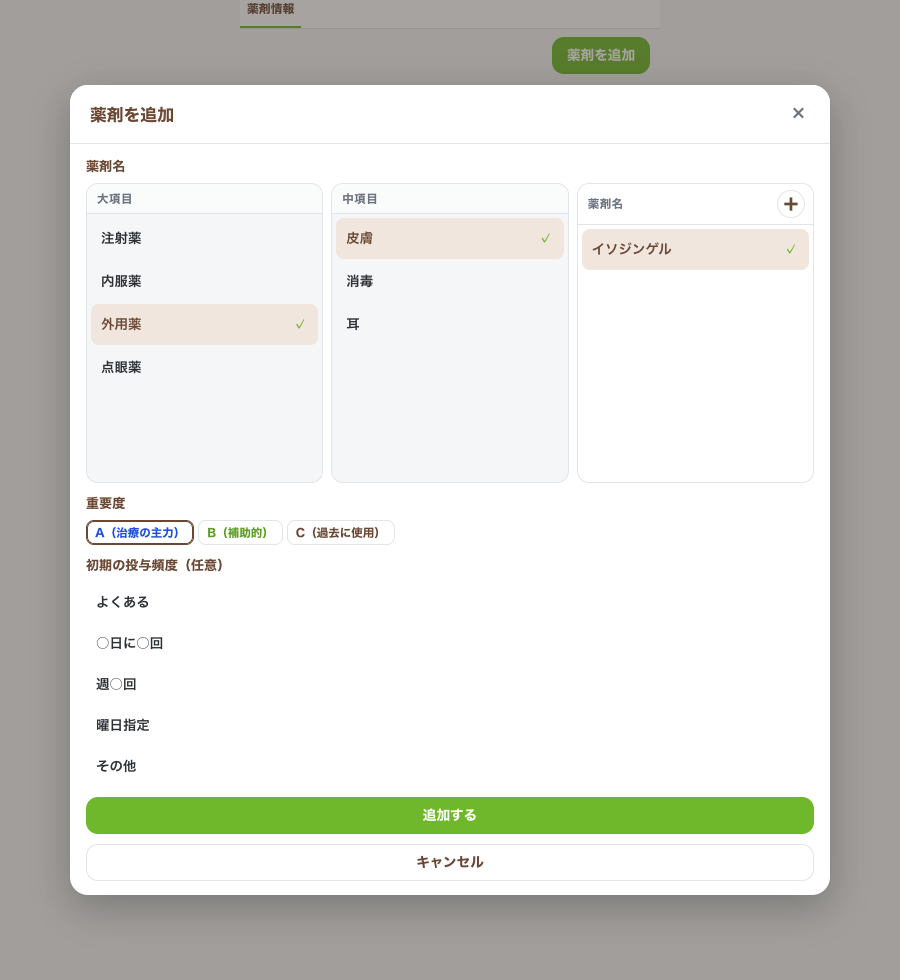
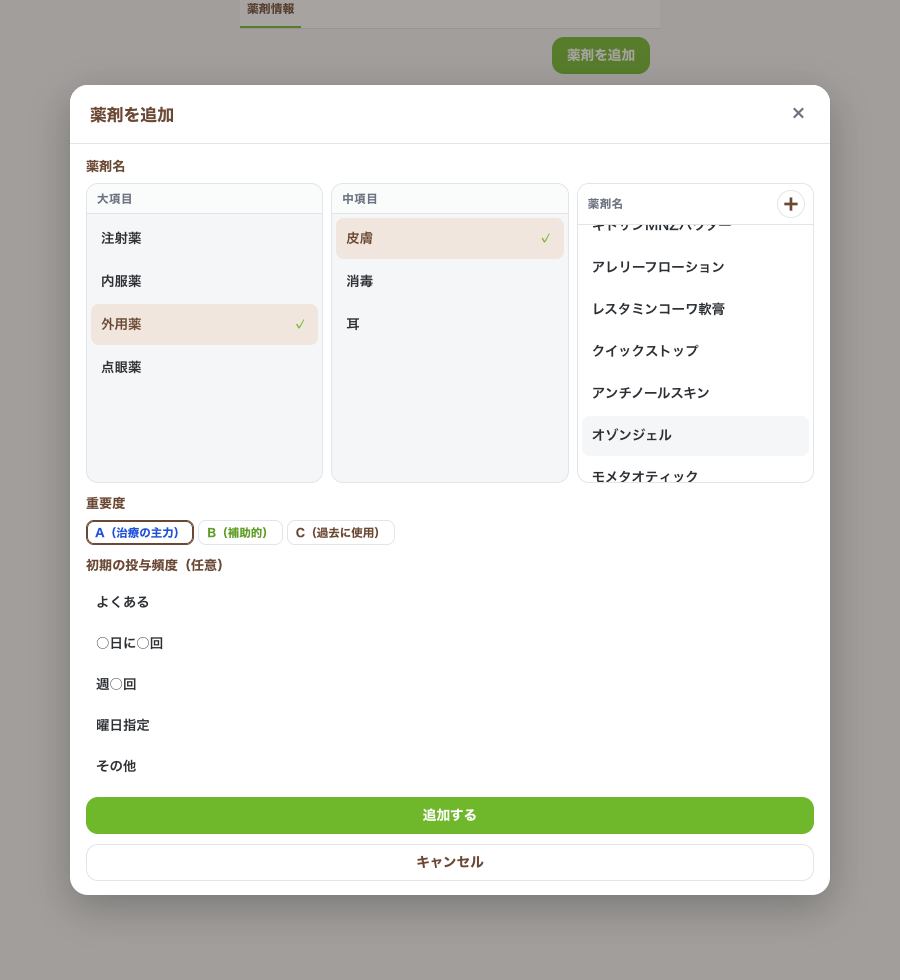
外用薬マスタに消毒・皮膚の薬剤名を指定順でシードする。

Changed region(s): [[0.6222, 0.2143, 0.9022, 0.2755], [0.6533, 0.3061, 0.8089, 0.3673], [0.6533, 0.398, 0.7778, 0.4898]]

diff --git a/js/db.js b/js/db.js
@@ -1479,6 +1479,9 @@ export const MED_ORAL_VITAMIN_GROUP_ID = "seed-med-oral-vitamin";
 export const MED_ORAL_HORMONE_GROUP_ID = "seed-med-oral-hormone";
 export const MED_ORAL_KAMPO_GROUP_ID = "seed-med-oral-kampo";
 export const MED_ORAL_BLOOD_GROUP_ID = "seed-med-oral-blood";
+export const MED_TOPICAL_SKIN_GROUP_ID = "seed-med-topical-skin";
+export const MED_TOPICAL_DISINFECT_GROUP_ID = "seed-med-topical-disinfect";
+export const MED_TOPICAL_EAR_GROUP_ID = "seed-med-topical-ear";
 
 /** 中項目シード */
 const MEDICATION_ITEM_GROUP_SEED = [
@@ -1503,12 +1506,12 @@ const MEDICATION_ITEM_GROUP_SEED = [
   medGroupSeed("oral", MED_ORAL_OTHER_GROUP_ID, "その他", 180),
   medGroupSeed("oral", "seed-med-oral-inject-suppository", "処方注射薬・座薬", 190),
   // 外用
-  medGroupSeed("topical", "seed-med-topical-skin", "皮膚", 10),
-  medGroupSeed("topical", "seed-med-topical-disinfect", "消毒", 20),
-  medGroupSeed("topical", "seed-med-topical-ear", "耳", 30),
+  medGroupSeed("topical", MED_TOPICAL_SKIN_GROUP_ID, "皮膚", 10),
+  medGroupSeed("topical", MED_TOPICAL_DISINFECT_GROUP_ID, "消毒", 20),
+  medGroupSeed("topical", MED_TOPICAL_EAR_GROUP_ID, "耳", 30),
 ];
 
-/** 内服薬の葉シード（中項目直下のフラット一覧・指定順） */
+/** 内服・外用の葉シード（中項目直下のフラット一覧・指定順） */
 const MEDICATION_ITEM_LEAF_SEED = [
   ...medGroupLeaves("oral", MED_ORAL_ANTIBIOTIC_GROUP_ID, [
     { id: "seed-med-oral-abx-amoxicillin", label: "アモキシシリン" },
@@ -1734,6 +1737,29 @@ const MEDICATION_ITEM_LEAF_SEED = [
     { id: "seed-med-oral-blood-clopidogrel", label: "クロピドグレル" },
     { id: "seed-med-oral-blood-xarelto", label: "イグザレルト" },
     { id: "seed-med-oral-blood-tranexamic", label: "トラネキサム酸" },
+  ]),
+  ...medGroupLeaves("topical", MED_TOPICAL_DISINFECT_GROUP_ID, [
+    { id: "seed-med-topical-disinfect-ch-towel", label: "CHタオル" },
+    { id: "seed-med-topical-disinfect-ap-water", label: "AP水" },
+  ]),
+  ...medGroupLeaves("topical", MED_TOPICAL_SKIN_GROUP_ID, [
+    { id: "seed-med-topical-skin-spirazone", label: "スピラゾン軟膏" },
+    { id: "seed-med-topical-skin-mometasone", label: "モメタゾン軟膏" },
+    { id: "seed-med-topical-skin-gentamicin", label: "ゲンタマイシンクリーム" },
+    { id: "seed-med-topical-skin-heparin-cream", label: "ヘパリンクリーム" },
+    { id: "seed-med-topical-skin-heparin-foam", label: "ヘパリン泡スプレー" },
+    { id: "seed-med-topical-skin-geben", label: "ゲーベンクリーム" },
+    { id: "seed-med-topical-skin-ketoconazole", label: "ケトコナゾールクリーム" },
+    { id: "seed-med-topical-skin-horse-oil", label: "馬油" },
+    { id: "seed-med-topical-skin-tacrolimus", label: "タクロリムス軟膏" },
+    { id: "seed-med-topical-skin-chitosan", label: "キトサンパウダー" },
+    { id: "seed-med-topical-skin-chitosan-mnz", label: "キトサンMNZパウダー" },
+    { id: "seed-med-topical-skin-allerief", label: "アレリーフローション" },
+    { id: "seed-med-topical-skin-restamin-kowa", label: "レスタミンコーワ軟膏" },
+    { id: "seed-med-topical-skin-quick-stop", label: "クイックストップ" },
+    { id: "seed-med-topical-skin-antinoll", label: "アンチノールスキン" },
+    { id: "seed-med-topical-skin-ozone-gel", label: "オゾンジェル" },
+    { id: "seed-med-topical-skin-mometotic", label: "モメタオティック" },
   ]),
 ];
 

diff --git a/scripts/mock-db-med-hierarchy.js b/scripts/mock-db-med-hierarchy.js
@@ -24,6 +24,9 @@ export const MED_ORAL_VITAMIN_GROUP_ID = "seed-med-oral-vitamin";
 export const MED_ORAL_HORMONE_GROUP_ID = "seed-med-oral-hormone";
 export const MED_ORAL_KAMPO_GROUP_ID = "seed-med-oral-kampo";
 export const MED_ORAL_BLOOD_GROUP_ID = "seed-med-oral-blood";
+export const MED_TOPICAL_SKIN_GROUP_ID = "seed-med-topical-skin";
+export const MED_TOPICAL_DISINFECT_GROUP_ID = "seed-med-topical-disinfect";
+export const MED_TOPICAL_EAR_GROUP_ID = "seed-med-topical-ear";
 
 const CATEGORY_IDS = new Set(MEDICATION_ITEM_CATEGORIES.map((c) => c.id));
 
@@ -88,9 +91,9 @@ const MEDICATION_ITEM_GROUP_SEED = [
   medGroupSeed("oral", MED_ORAL_KAMPO_GROUP_ID, "漢方", 170),
   medGroupSeed("oral", MED_ORAL_OTHER_GROUP_ID, "その他", 180),
   medGroupSeed("oral", "seed-med-oral-inject-suppository", "処方注射薬・座薬", 190),
-  medGroupSeed("topical", "seed-med-topical-skin", "皮膚", 10),
-  medGroupSeed("topical", "seed-med-topical-disinfect", "消毒", 20),
-  medGroupSeed("topical", "seed-med-topical-ear", "耳", 30),
+  medGroupSeed("topical", MED_TOPICAL_SKIN_GROUP_ID, "皮膚", 10),
+  medGroupSeed("topical", MED_TOPICAL_DISINFECT_GROUP_ID, "消毒", 20),
+  medGroupSeed("topical", MED_TOPICAL_EAR_GROUP_ID, "耳", 30),
 ];
 
 export const MEDICATION_ITEM_LEAF_SEED = [
@@ -315,6 +318,29 @@ export const MEDICATION_ITEM_LEAF_SEED = [
     { id: "seed-med-oral-blood-clopidogrel", label: "クロピドグレル" },
     { id: "seed-med-oral-blood-xarelto", label: "イグザレルト" },
     { id: "seed-med-oral-blood-tranexamic", label: "トラネキサム酸" },
+  ]),
+  ...medGroupLeaves("topical", MED_TOPICAL_DISINFECT_GROUP_ID, [
+    { id: "seed-med-topical-disinfect-ch-towel", label: "CHタオル" },
+    { id: "seed-med-topical-disinfect-ap-water", label: "AP水" },
+  ]),
+  ...medGroupLeaves("topical", MED_TOPICAL_SKIN_GROUP_ID, [
+    { id: "seed-med-topical-skin-spirazone", label: "スピラゾン軟膏" },
+    { id: "seed-med-topical-skin-mometasone", label: "モメタゾン軟膏" },
+    { id: "seed-med-topical-skin-gentamicin", label: "ゲンタマイシンクリーム" },
+    { id: "seed-med-topical-skin-heparin-cream", label: "ヘパリンクリーム" },
+    { id: "seed-med-topical-skin-heparin-foam", label: "ヘパリン泡スプレー" },
+    { id: "seed-med-topical-skin-geben", label: "ゲーベンクリーム" },
+    { id: "seed-med-topical-skin-ketoconazole", label: "ケトコナゾールクリーム" },
+    { id: "seed-med-topical-skin-horse-oil", label: "馬油" },
+    { id: "seed-med-topical-skin-tacrolimus", label: "タクロリムス軟膏" },
+    { id: "seed-med-topical-skin-chitosan", label: "キトサンパウダー" },
+    { id: "seed-med-topical-skin-chitosan-mnz", label: "キトサンMNZパウダー" },
+    { id: "seed-med-topical-skin-allerief", label: "アレリーフローション" },
+    { id: "seed-med-topical-skin-restamin-kowa", label: "レスタミンコーワ軟膏" },
+    { id: "seed-med-topical-skin-quick-stop", label: "クイックストップ" },
+    { id: "seed-med-topical-skin-antinoll", label: "アンチノールスキン" },
+    { id: "seed-med-topical-skin-ozone-gel", label: "オゾンジェル" },
+    { id: "seed-med-topical-skin-mometotic", label: "モメタオティック" },
   ]),
 ];
 

diff --git a/service-worker.js b/service-worker.js
@@ -8,7 +8,7 @@
 //
 // ※ CACHE_VERSION を上げるときは js/app-version.js の APP_VERSION / CACHE_LABEL も合わせて更新する。
 
-const CACHE_VERSION = "v149";
+const CACHE_VERSION = "v150";
 const CACHE_NAME = `nyuta-karte-log-${CACHE_VERSION}`;
 
 const APP_SHELL_FILES = [

diff --git a/js/app-version.js b/js/app-version.js
@@ -1,3 +1,3 @@
 // アプリの表示用バージョン。Service Worker の CACHE_VERSION と合わせて更新する。
-export const APP_VERSION = "1.10.6";
-export const CACHE_LABEL = "v149";
+export const APP_VERSION = "1.10.7";
+export const CACHE_LABEL = "v150";
